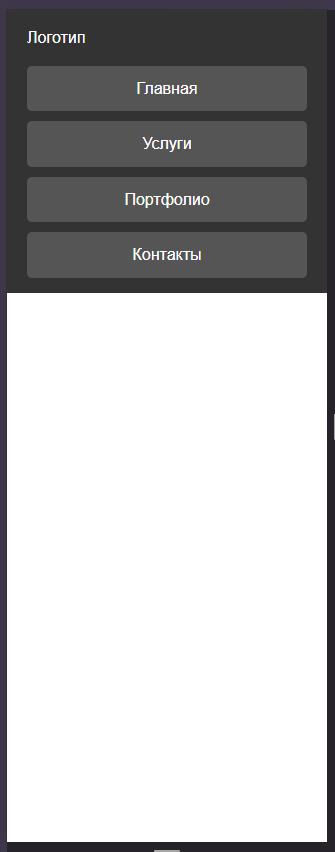
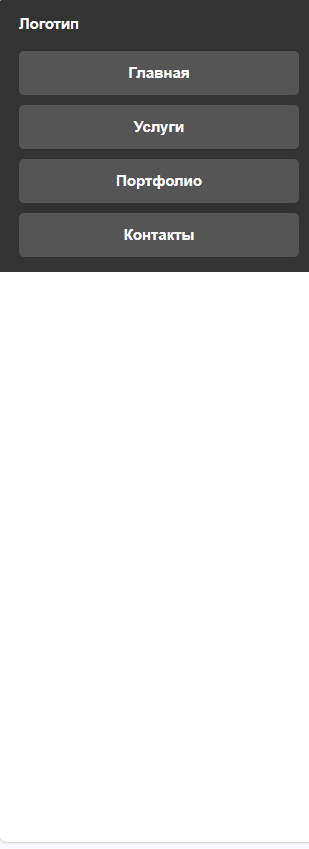
Added adaptive navigation practice

Changed region(s): [[0.0, 0.0, 1.0, 1.0]]

diff --git a/nav-practice.css b/nav-practice.css
@@ -15,6 +15,8 @@ padding: 15px 20px;
 display: flex;
 flex-direction: column;
 gap: 15px;
+font-size: 15px;
+font-weight: bold;
 }
 
 .nav {
